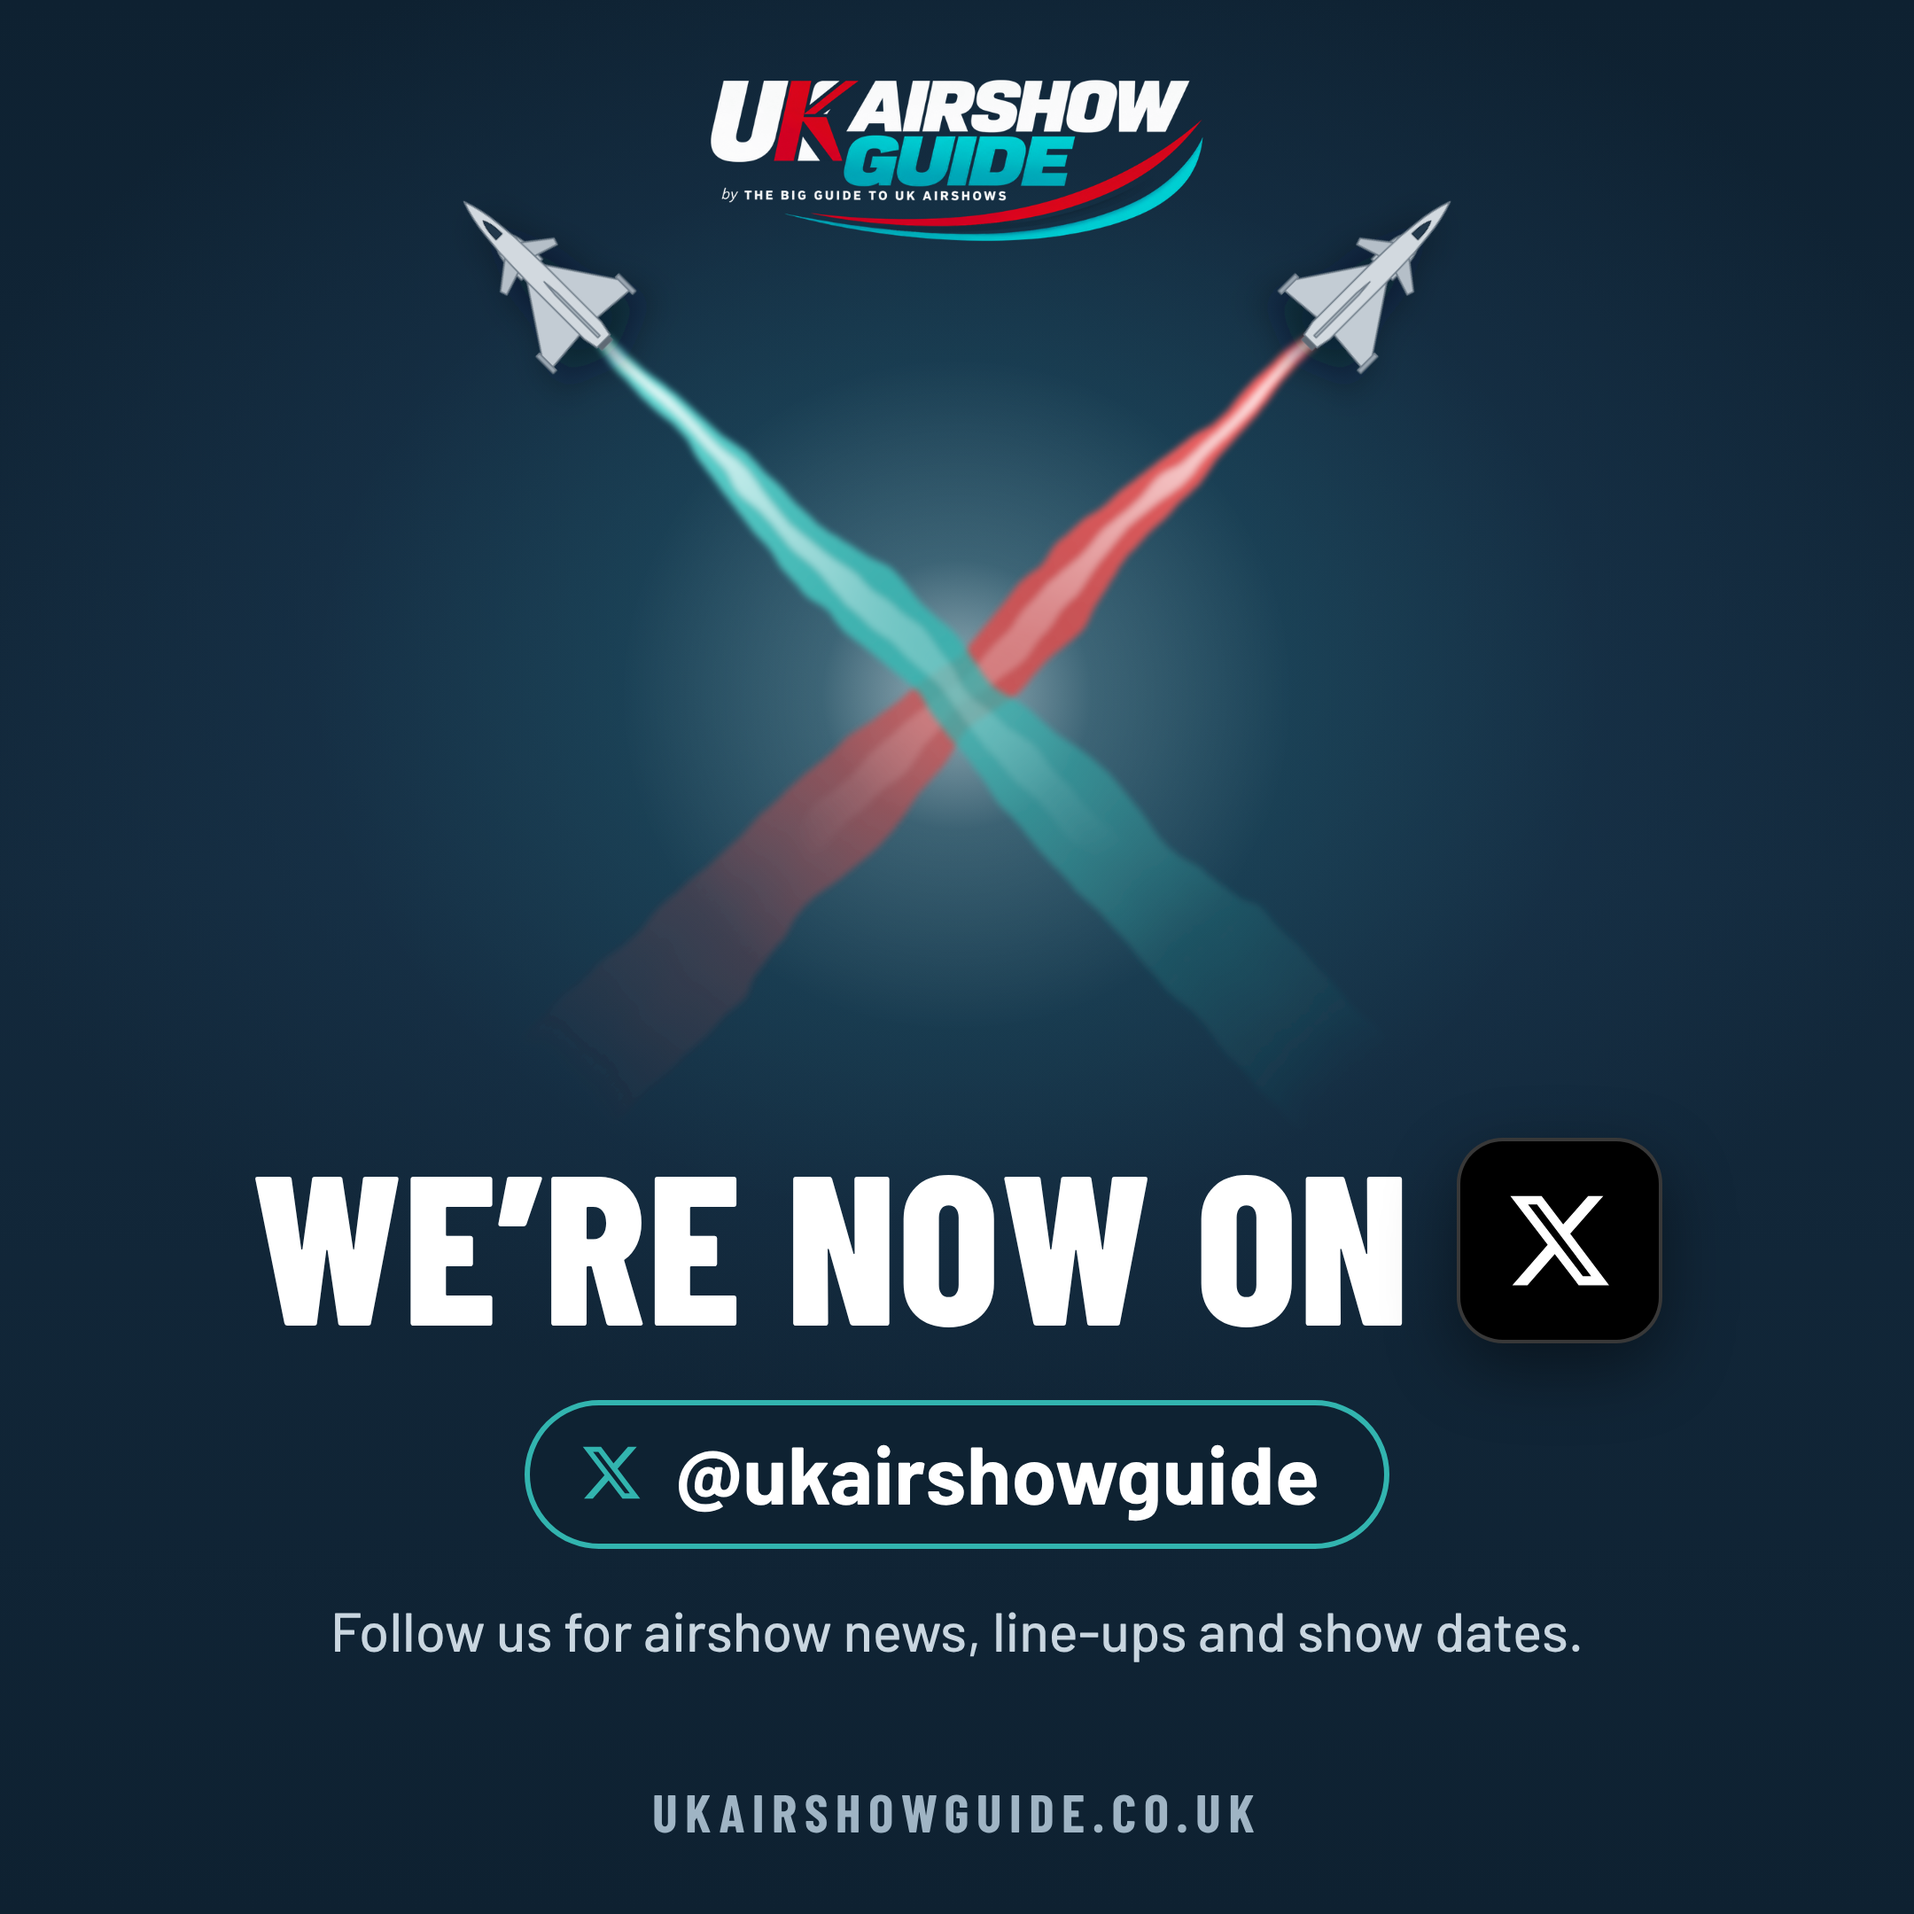
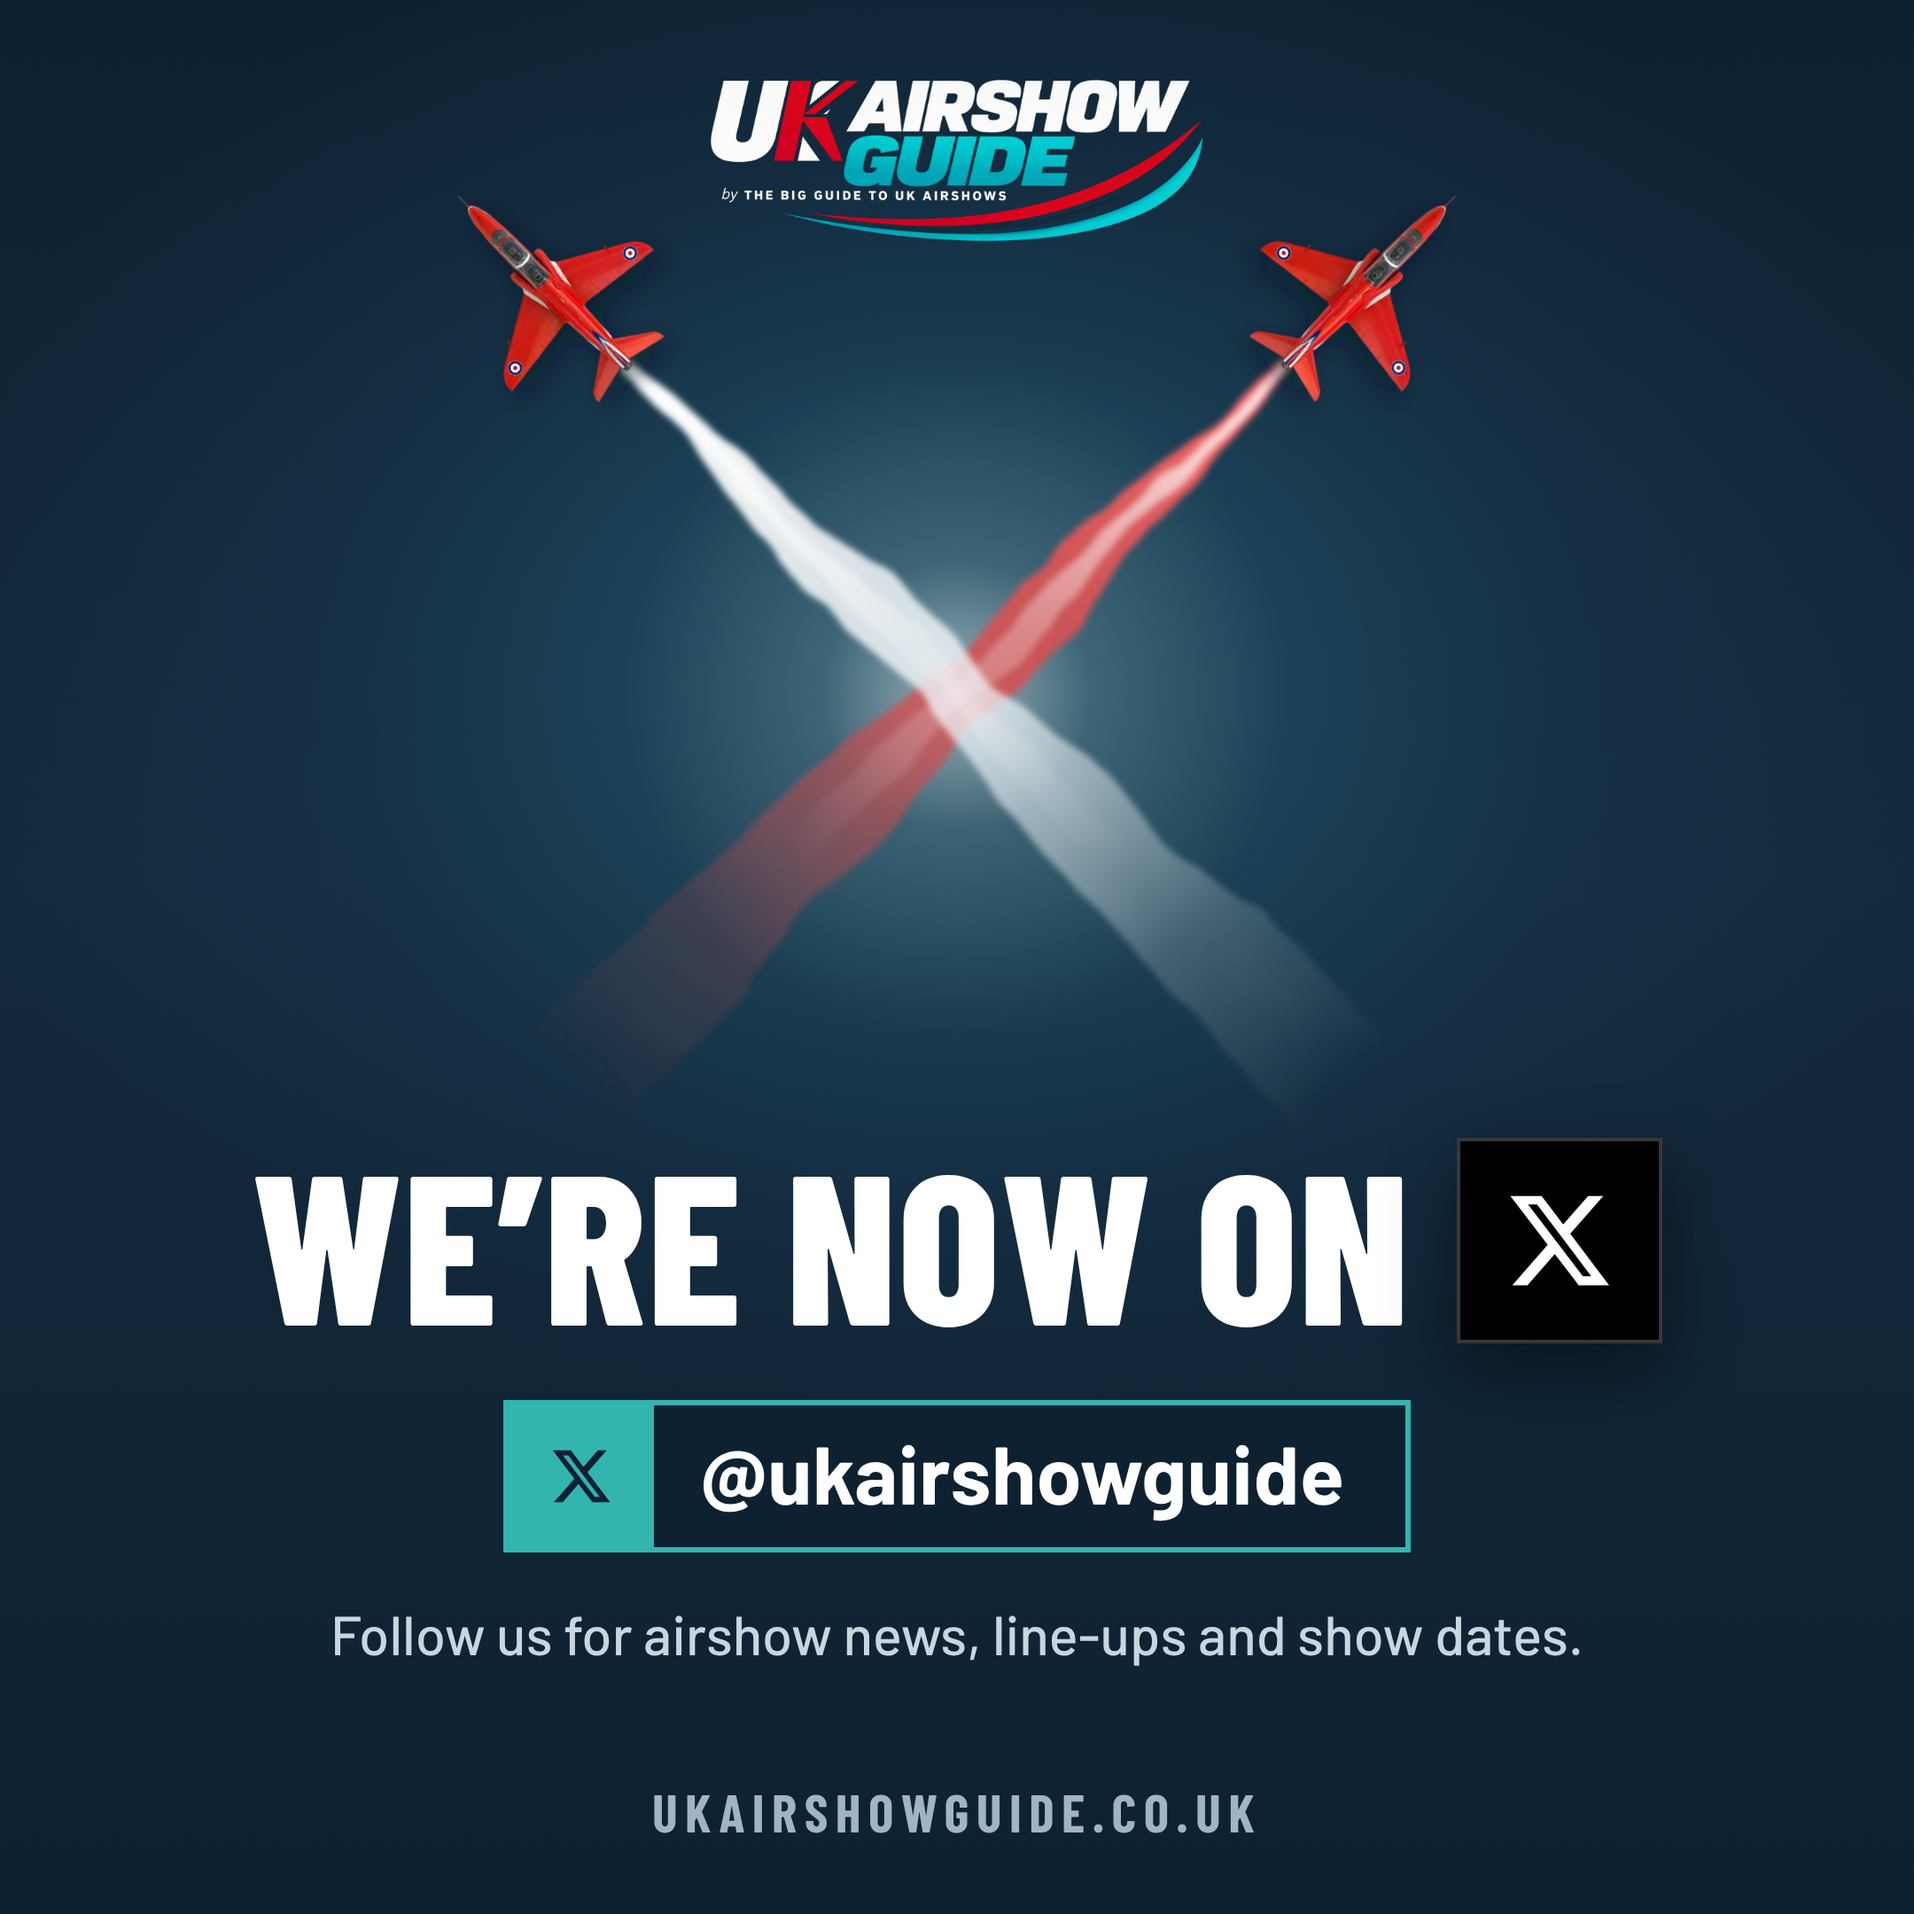
X poster: Red Arrows Hawks, square corners throughout
Claude-Session: https://claude.ai/code/session_01CAsoXMNDkiCQGLG5yU9aUq

diff --git a/posters/now-on-x.html b/posters/now-on-x.html
@@ -45,26 +45,27 @@ html,body{margin:0;height:100%;background:#081520;overflow:hidden}
   text-transform:uppercase;white-space:nowrap;
 }
 .xtile{
-  display:grid;place-items:center;width:124px;height:124px;border-radius:28px;flex:none;
+  display:grid;place-items:center;width:124px;height:124px;flex:none;
   background:#000;border:2px solid rgba(255,255,255,.22);
   box-shadow:0 14px 40px rgba(0,0,0,.45);
 }
 .xtile svg{width:66px;height:66px;fill:#fff}
 
 .handle{
-  display:inline-flex;align-items:center;gap:18px;margin-top:40px;padding:17px 40px 19px 32px;
-  border:3px solid var(--teal);border-radius:999px;background:rgba(14,33,49,.72);
+  display:inline-flex;align-items:stretch;margin-top:40px;
+  border:3px solid var(--teal);background:rgba(14,33,49,.82);
   font-weight:700;font-size:50px;line-height:1;letter-spacing:.005em;
 }
-.handle svg{width:36px;height:36px;fill:var(--teal);flex:none}
+.handle .hx{display:grid;place-items:center;width:90px;flex:none;background:var(--teal)}
+.handle .hx svg{width:40px;height:40px;fill:var(--deep)}
+.handle .hn{padding:18px 38px 22px 30px}
 
 .sub{margin:36px 0 0;font-weight:500;font-size:34px;line-height:1.3;color:var(--soft)}
 
 .foot{position:absolute;left:80px;right:80px;bottom:56px;text-align:center}
 .runway{display:flex;align-items:center;gap:18px;margin-bottom:26px}
-.runway i{display:block;height:5px;border-radius:3px;background:rgba(255,255,255,.34)}
 .runway .keys{display:flex;gap:6px;flex:none}
-.runway .keys b{display:block;width:6px;height:30px;border-radius:2px;background:rgba(255,255,255,.5)}
+.runway .keys b{display:block;width:6px;height:30px;background:rgba(255,255,255,.5)}
 .runway .dash{flex:1;height:5px;background:repeating-linear-gradient(90deg,rgba(255,255,255,.34) 0 46px,transparent 46px 78px)}
 .url{font-family:var(--display);font-weight:700;font-size:34px;letter-spacing:.14em;text-transform:uppercase;color:var(--mute)}
 
@@ -77,9 +78,12 @@ html,body{margin:0;height:100%;background:#081520;overflow:hidden}
 .sq .logo{top:44px;width:280px}
 .sq .copy{top:640px}
 .sq .head{font-size:120px}
-.sq .xtile{width:116px;height:116px;border-radius:26px}
+.sq .xtile{width:116px;height:116px}
 .sq .xtile svg{width:62px;height:62px}
-.sq .handle{margin-top:30px;font-size:46px;padding:15px 36px 17px 28px}
+.sq .handle{margin-top:30px;font-size:46px}
+.sq .handle .hx{width:82px}
+.sq .handle .hx svg{width:36px;height:36px}
+.sq .handle .hn{padding:15px 34px 19px 26px}
 .sq .sub{margin-top:26px;font-size:31px}
 .sq .foot{bottom:40px}
 .sq .runway{display:none}
@@ -90,7 +94,8 @@ html,body{margin:0;height:100%;background:#081520;overflow:hidden}
 <div class="stage">
 <div class="poster" id="poster">
 
-  <!-- Two jets cross and their smoke draws an X in the sky. -->
+  <!-- Two Red Arrows Hawks cross and their smoke draws an X in the sky. The Hawk is the site's own
+       top view cut-out (camping-layout/img/dl-hawk.webp). No rounded corners anywhere on the poster. -->
   <svg class="sky" id="sky" viewBox="0 0 1080 1350" aria-hidden="true">
     <defs>
       <linearGradient id="trailRed" x1="0" y1="0" x2="0" y2="1">
@@ -99,11 +104,11 @@ html,body{margin:0;height:100%;background:#081520;overflow:hidden}
         <stop offset=".78" stop-color="#D74949" stop-opacity=".2"/>
         <stop offset="1" stop-color="#D74949" stop-opacity="0"/>
       </linearGradient>
-      <linearGradient id="trailTeal" x1="0" y1="0" x2="0" y2="1">
-        <stop offset="0" stop-color="#6FE3DD" stop-opacity="1"/>
-        <stop offset=".45" stop-color="#32B4AF" stop-opacity=".82"/>
-        <stop offset=".78" stop-color="#32B4AF" stop-opacity=".2"/>
-        <stop offset="1" stop-color="#32B4AF" stop-opacity="0"/>
+      <linearGradient id="trailWhite" x1="0" y1="0" x2="0" y2="1">
+        <stop offset="0" stop-color="#FFFFFF" stop-opacity="1"/>
+        <stop offset=".45" stop-color="#EEF3F7" stop-opacity=".8"/>
+        <stop offset=".78" stop-color="#EEF3F7" stop-opacity=".2"/>
+        <stop offset="1" stop-color="#EEF3F7" stop-opacity="0"/>
       </linearGradient>
       <linearGradient id="trailCore" x1="0" y1="0" x2="0" y2="1">
         <stop offset="0" stop-color="#fff" stop-opacity=".9"/>
@@ -123,34 +128,23 @@ html,body{margin:0;height:100%;background:#081520;overflow:hidden}
       <filter id="shadow" x="-40%" y="-40%" width="180%" height="180%">
         <feDropShadow dx="0" dy="10" stdDeviation="9" flood-color="#04101A" flood-opacity=".55"/>
       </filter>
-      <!-- Saab Gripen, top view, nose up (the site's own drawing, home-img/top/gripen.svg) -->
-      <g id="jet" stroke="#6F7D89" stroke-width=".7" stroke-linejoin="round">
-        <path d="M4 79 L25.5 47 L34.5 47 L56 79 L56 85 L34.5 83 L25.5 83 L4 85 Z" fill="#C3CCD4"/>
-        <path d="M3 76 h2 v11 h-2 z M55 76 h2 v11 h-2 z" fill="#9AA6B1"/>
-        <path d="M26 27 Q22.6 31 23.2 46 L36.8 46 Q37.4 31 34 27 Z" fill="#BCC6CE"/>
-        <path d="M25.5 33 L12.5 43 L13.5 46 L26 42 Z M34.5 33 L47.5 43 L46.5 46 L34 42 Z" fill="#B5BFC8"/>
-        <path d="M30 1.5 C31.6 6 33.4 13 34 20 L35 30 L35.6 50 L35.6 86 L34.2 93 L25.8 93 L24.4 86 L24.4 50 L25 30 L26 20 C26.6 13 28.4 6 30 1.5 Z" fill="#D2D9DF"/>
-        <path d="M30 14 C31.5 16.5 32 20 32 24.5 L28 24.5 C28 20 28.5 16.5 30 14 Z" fill="#22384B" stroke="#16293A" stroke-width=".5"/>
-        <path d="M29.3 62 L30 54 L30.7 62 L30.7 90 L29.3 90 Z" fill="#A9B4BE"/>
-        <path d="M26.4 93 h7.2 v2.6 h-7.2 z" fill="#5E6A75" stroke="none"/>
-      </g>
     </defs>
 
     <g id="cross" transform="translate(540 520)">
       <circle r="250" fill="url(#flash)"/>
       <g transform="rotate(45)">
         <g filter="url(#smoke)">
-          <path d="M-8 -372 L8 -372 L50 410 L-50 410 Z" fill="url(#trailRed)"/>
-          <path d="M-3 -372 L3 -372 L14 300 L-14 300 Z" fill="url(#trailCore)"/>
+          <path d="M-7 -348 L7 -348 L50 410 L-50 410 Z" fill="url(#trailRed)"/>
+          <path d="M-3 -348 L3 -348 L14 300 L-14 300 Z" fill="url(#trailCore)"/>
         </g>
-        <use href="#jet" transform="translate(-48 -520) scale(1.6)" filter="url(#shadow)"/>
+        <image href="../camping-layout/img/dl-hawk.webp" x="-75" y="-524" width="150" height="183" filter="url(#shadow)"/>
       </g>
       <g transform="rotate(-45)">
         <g filter="url(#smoke)">
-          <path d="M-8 -372 L8 -372 L50 410 L-50 410 Z" fill="url(#trailTeal)"/>
-          <path d="M-3 -372 L3 -372 L14 300 L-14 300 Z" fill="url(#trailCore)"/>
+          <path d="M-7 -348 L7 -348 L50 410 L-50 410 Z" fill="url(#trailWhite)"/>
+          <path d="M-3 -348 L3 -348 L14 300 L-14 300 Z" fill="url(#trailCore)"/>
         </g>
-        <use href="#jet" transform="translate(-48 -520) scale(1.6)" filter="url(#shadow)"/>
+        <image href="../camping-layout/img/dl-hawk.webp" x="-75" y="-524" width="150" height="183" filter="url(#shadow)"/>
       </g>
     </g>
   </svg>
@@ -163,8 +157,8 @@ html,body{margin:0;height:100%;background:#081520;overflow:hidden}
       <span class="xtile" role="img" aria-label="X"><svg viewBox="0 0 24 24" aria-hidden="true"><path d="M18.244 2.25h3.308l-7.227 8.26 8.502 11.24H16.17l-5.214-6.817L4.99 21.75H1.68l7.73-8.835L1.254 2.25H8.08l4.713 6.231zm-1.161 17.52h1.833L7.084 4.126H5.117z"/></svg></span>
     </h1>
     <div class="handle">
-      <svg viewBox="0 0 24 24" aria-hidden="true"><path d="M18.244 2.25h3.308l-7.227 8.26 8.502 11.24H16.17l-5.214-6.817L4.99 21.75H1.68l7.73-8.835L1.254 2.25H8.08l4.713 6.231zm-1.161 17.52h1.833L7.084 4.126H5.117z"/></svg>
-      <!-- HANDLE --><span>@ukairshowguide</span>
+      <span class="hx"><svg viewBox="0 0 24 24" aria-hidden="true"><path d="M18.244 2.25h3.308l-7.227 8.26 8.502 11.24H16.17l-5.214-6.817L4.99 21.75H1.68l7.73-8.835L1.254 2.25H8.08l4.713 6.231zm-1.161 17.52h1.833L7.084 4.126H5.117z"/></svg></span>
+      <!-- HANDLE --><span class="hn">@ukairshowguide</span>
     </div>
     <p class="sub">Follow us for airshow news, line-ups and show dates.</p>
   </div>
